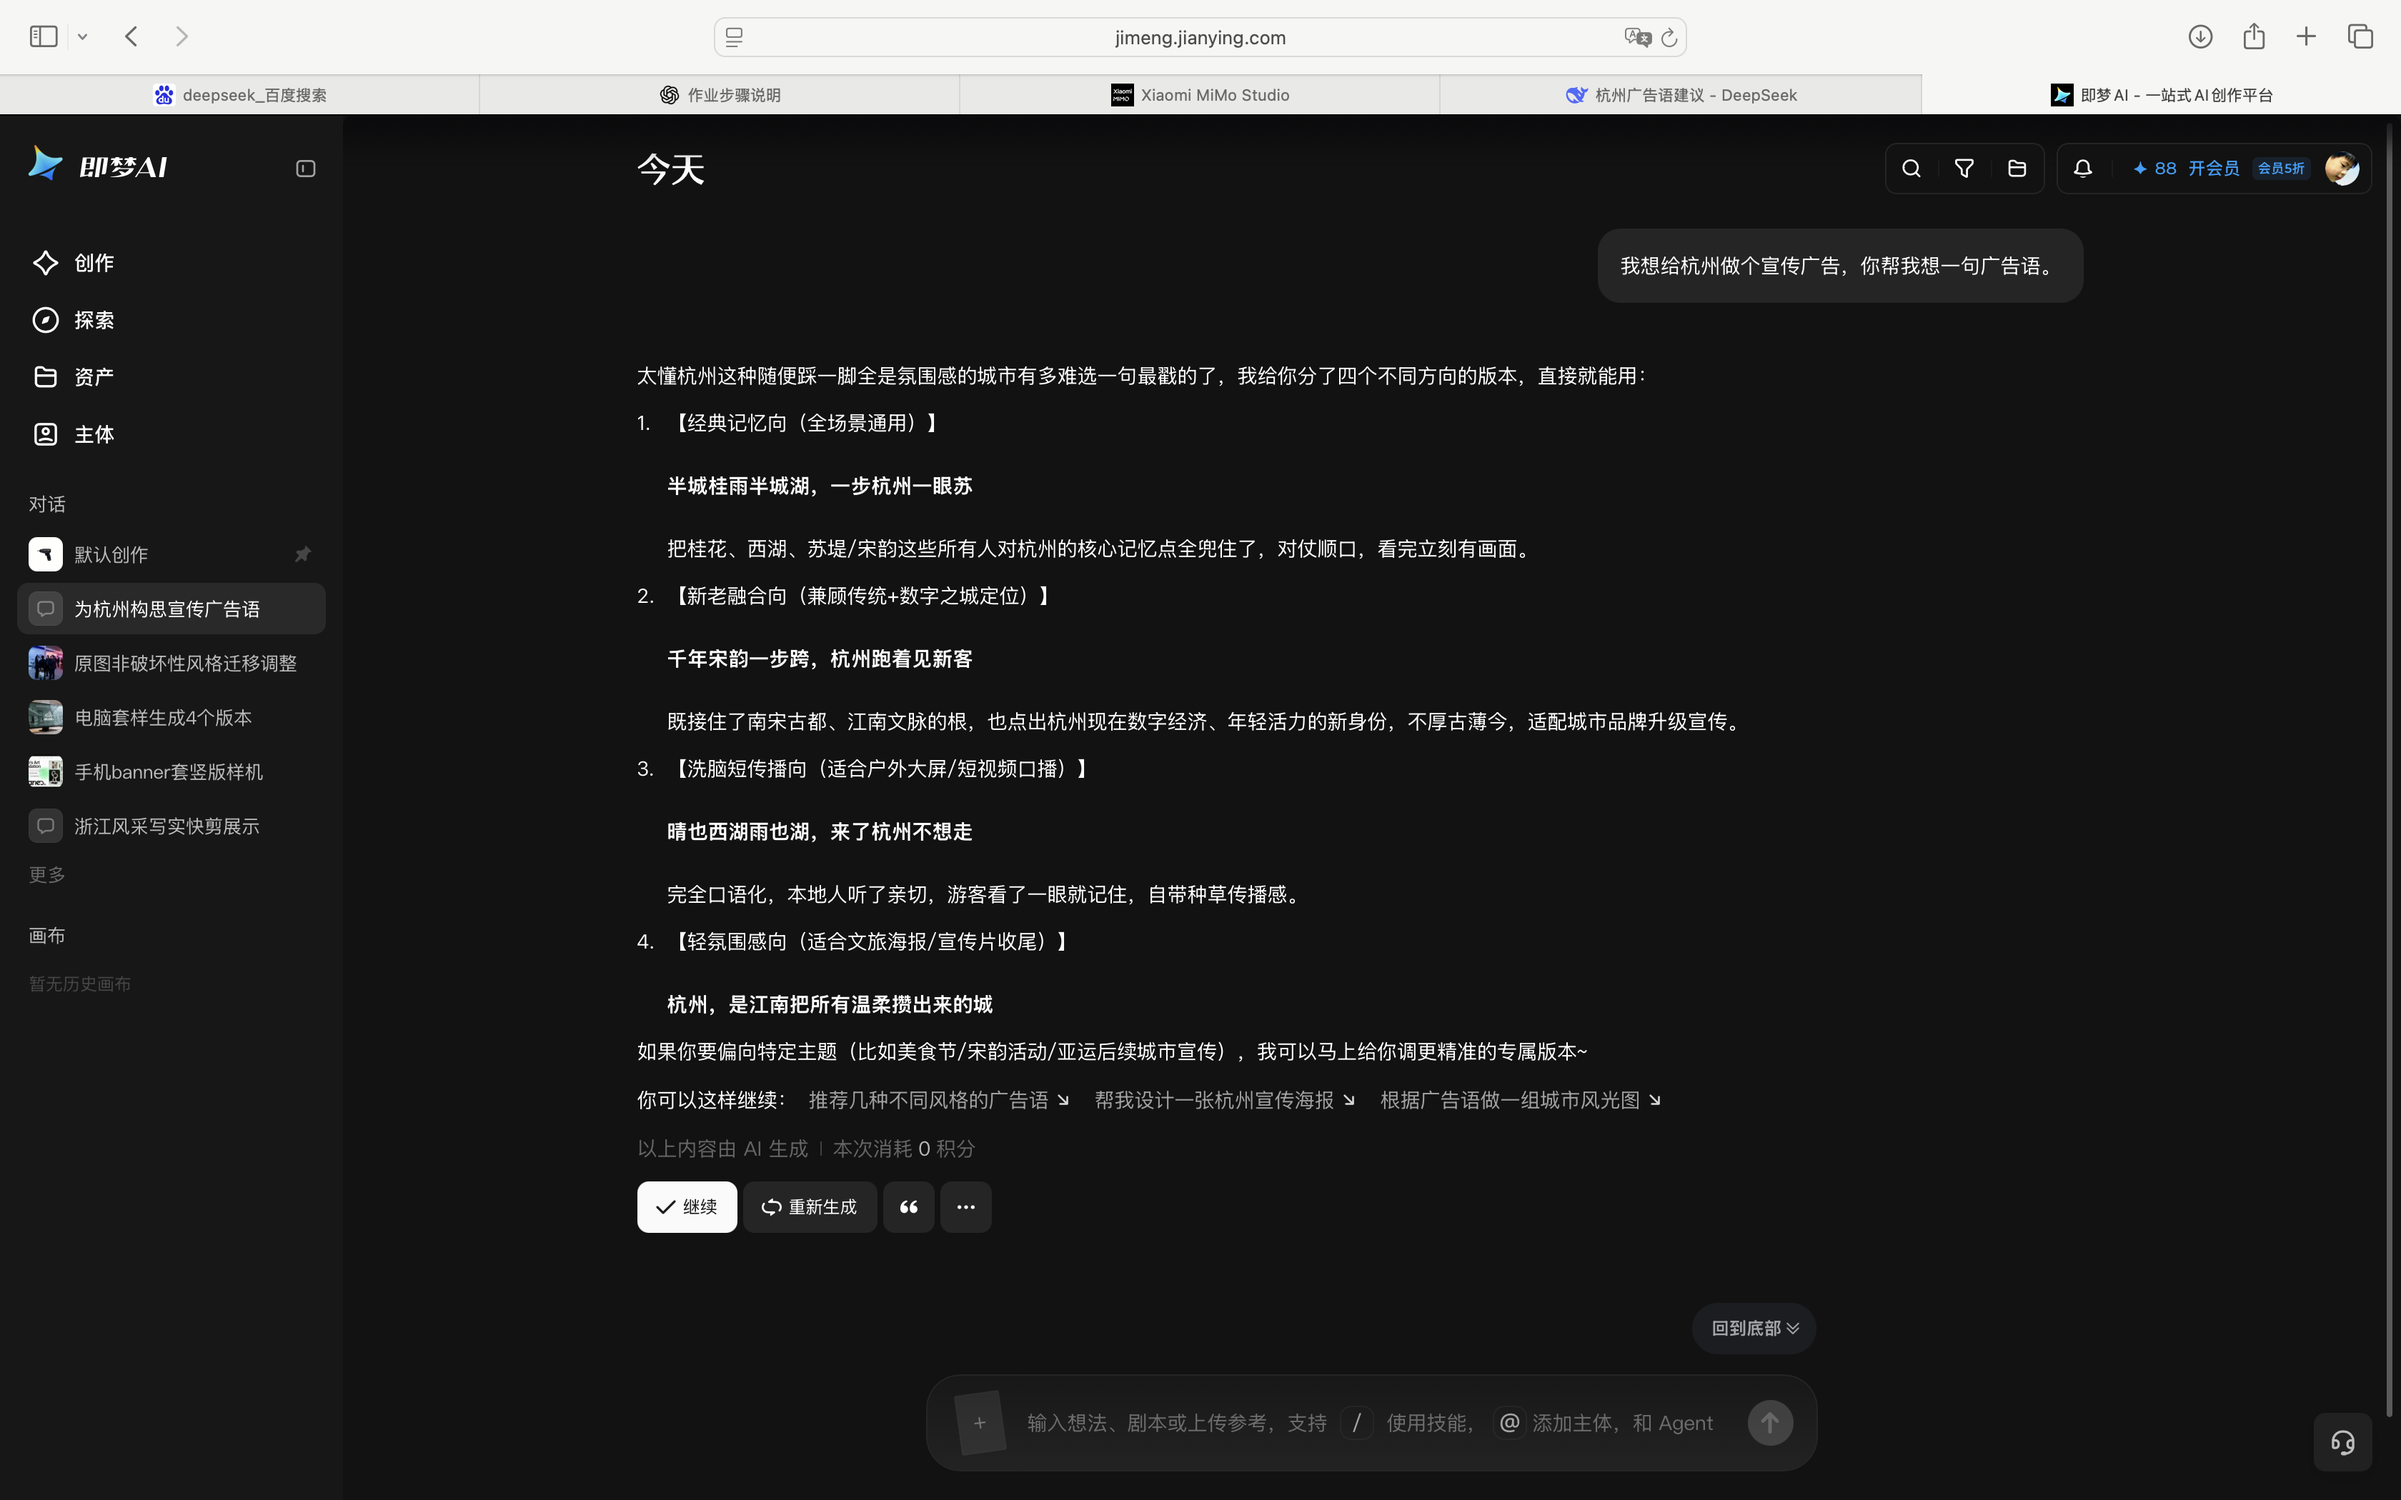
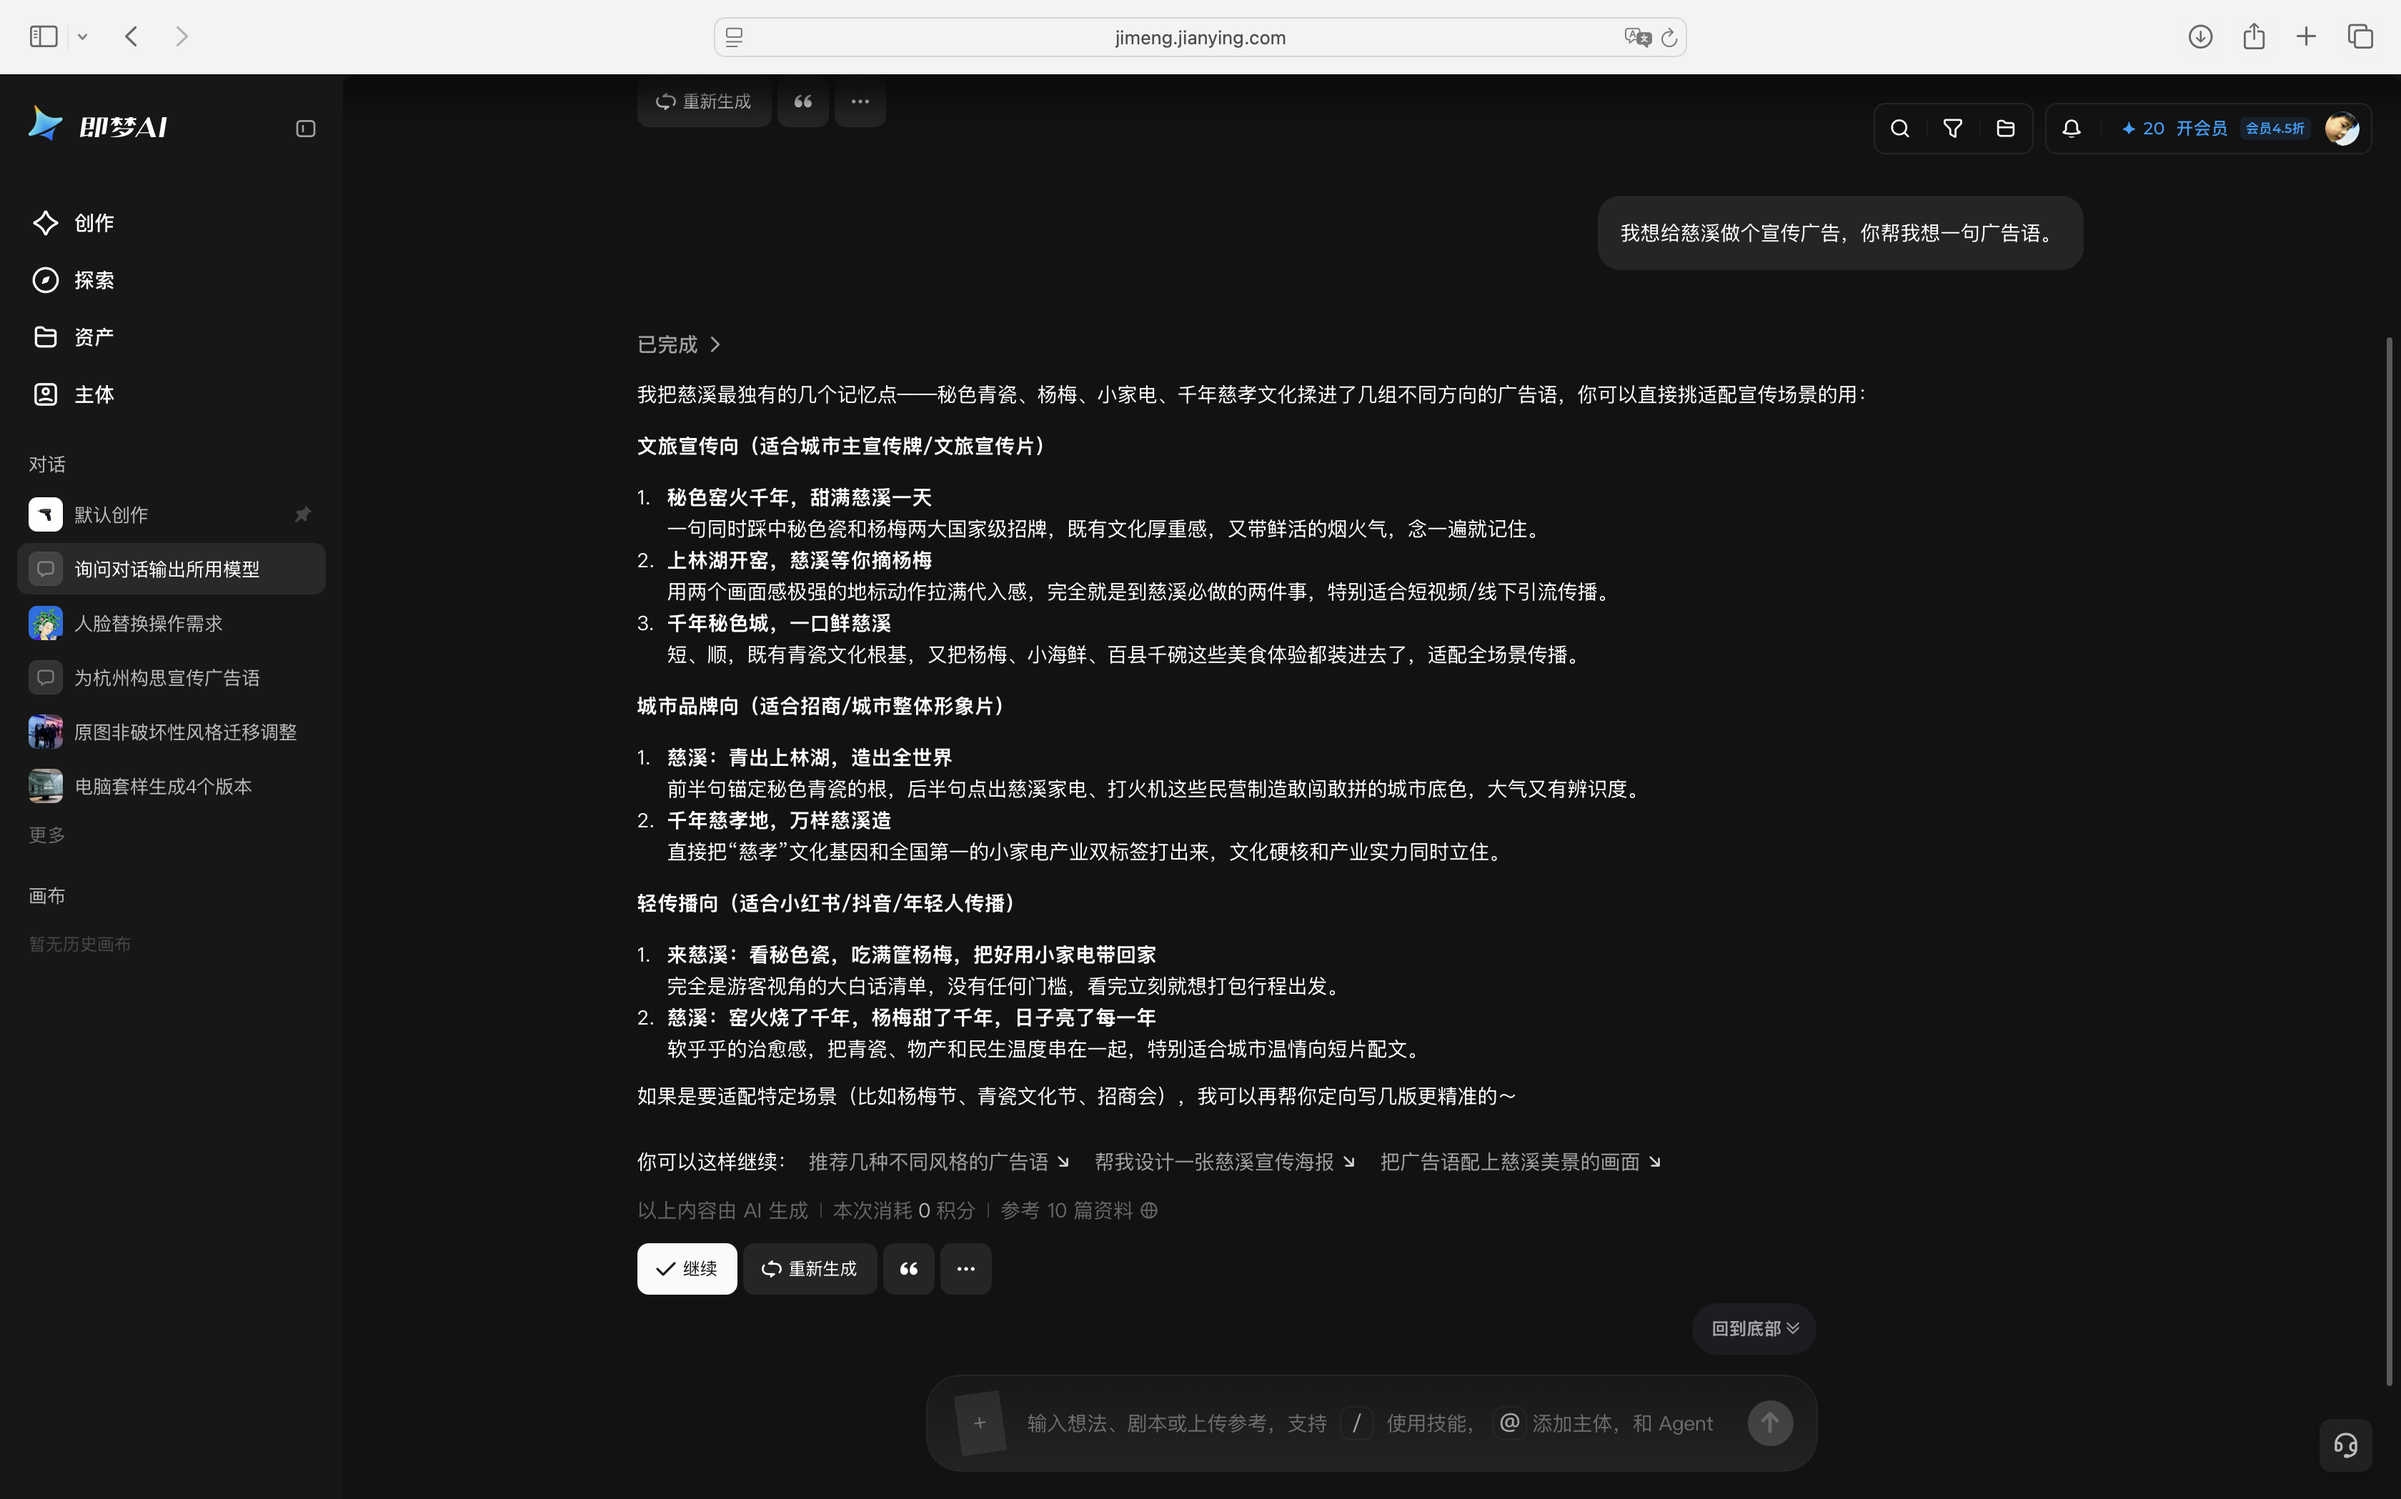
更新为慈溪城市宣传语实验

diff --git a/index.html b/index.html
@@ -3,7 +3,7 @@
 <head>
 <meta charset="UTF-8">
 <meta name="viewport" content="width=device-width, initial-scale=1.0">
-<title>AI 模型对比实验 · 杭州城市宣传广告</title>
+<title>AI 模型对比实验 · 慈溪城市宣传广告</title>
 <style>
   :root{
     --bg:#0E1210;
@@ -242,7 +242,7 @@
 <body>
 <div class="progress" id="progress"></div>
 <div class="stage">
-  <div class="brand">AI 模型对比实验 · 杭州城市宣传广告</div>
+  <div class="brand">AI 模型对比实验 · 慈溪城市宣传广告</div>
 
   <!-- ============ 第 1 页 ============ -->
   <section class="slide active">
@@ -276,7 +276,7 @@
           <div class="shot-wrap" onclick="zoom('1/deepseek.png')">
             <img src="1/deepseek.png" alt="DeepSeek 第一轮输出"><span class="zoom-tip">点击看原图</span>
           </div>
-          <div class="cap">4 个风格版本，各配适用场景</div>
+          <div class="cap">多方向输出，附适用场景</div>
         </div>
         <div class="screen">
           <div class="screen-head">
@@ -301,9 +301,9 @@
 
       <div class="chips">
         <div class="chip"><b>角色</b><span>专业城市品牌策划师</span></div>
-        <div class="chip"><b>任务</b><span>为杭州创作宣传广告语</span></div>
+        <div class="chip"><b>任务</b><span>为慈溪创作宣传广告语</span></div>
         <div class="chip"><b>受众</b><span>18–30 岁年轻人</span></div>
-        <div class="chip"><b>主题</b><span>杭州文化 × 现代活力</span></div>
+        <div class="chip"><b>主题</b><span>慈溪文化 × 现代活力</span></div>
         <div class="chip"><b>风格</b><span>朗朗上口 · 易记易传播</span></div>
         <div class="chip"><b>限制</b><span>≤15 字 · 避免陈词滥调</span></div>
       </div>
@@ -425,7 +425,7 @@
   });
 
   /* ===== 打字机 ===== */
-  var PROMPT = '我想给杭州做个宣传广告，你帮我想一句广告语。';
+  var PROMPT = '我想给慈溪做个宣传广告，你帮我想一句广告语。';
   (function type(){
     var el = document.getElementById('typed'), i = 0;
     var iv = setInterval(function(){

diff --git a/README.md b/README.md
@@ -1,6 +1,6 @@
-# AI 模型对比实验 · 杭州城市宣传广告
+# AI 模型对比实验 · 慈溪城市宣传广告
 
-三页交互式课程作业演示：比较 MiMo / DeepSeek / 即梦AI（Seedream）在「杭州城市宣传广告语」任务上的两轮输出。
+三页交互式课程作业演示：比较 MiMo / DeepSeek / 即梦AI（Seedream）在「慈溪城市宣传广告语」任务上的两轮输出。
 
 - ← → 方向键翻页
 - 点击任意截图放大看原图
